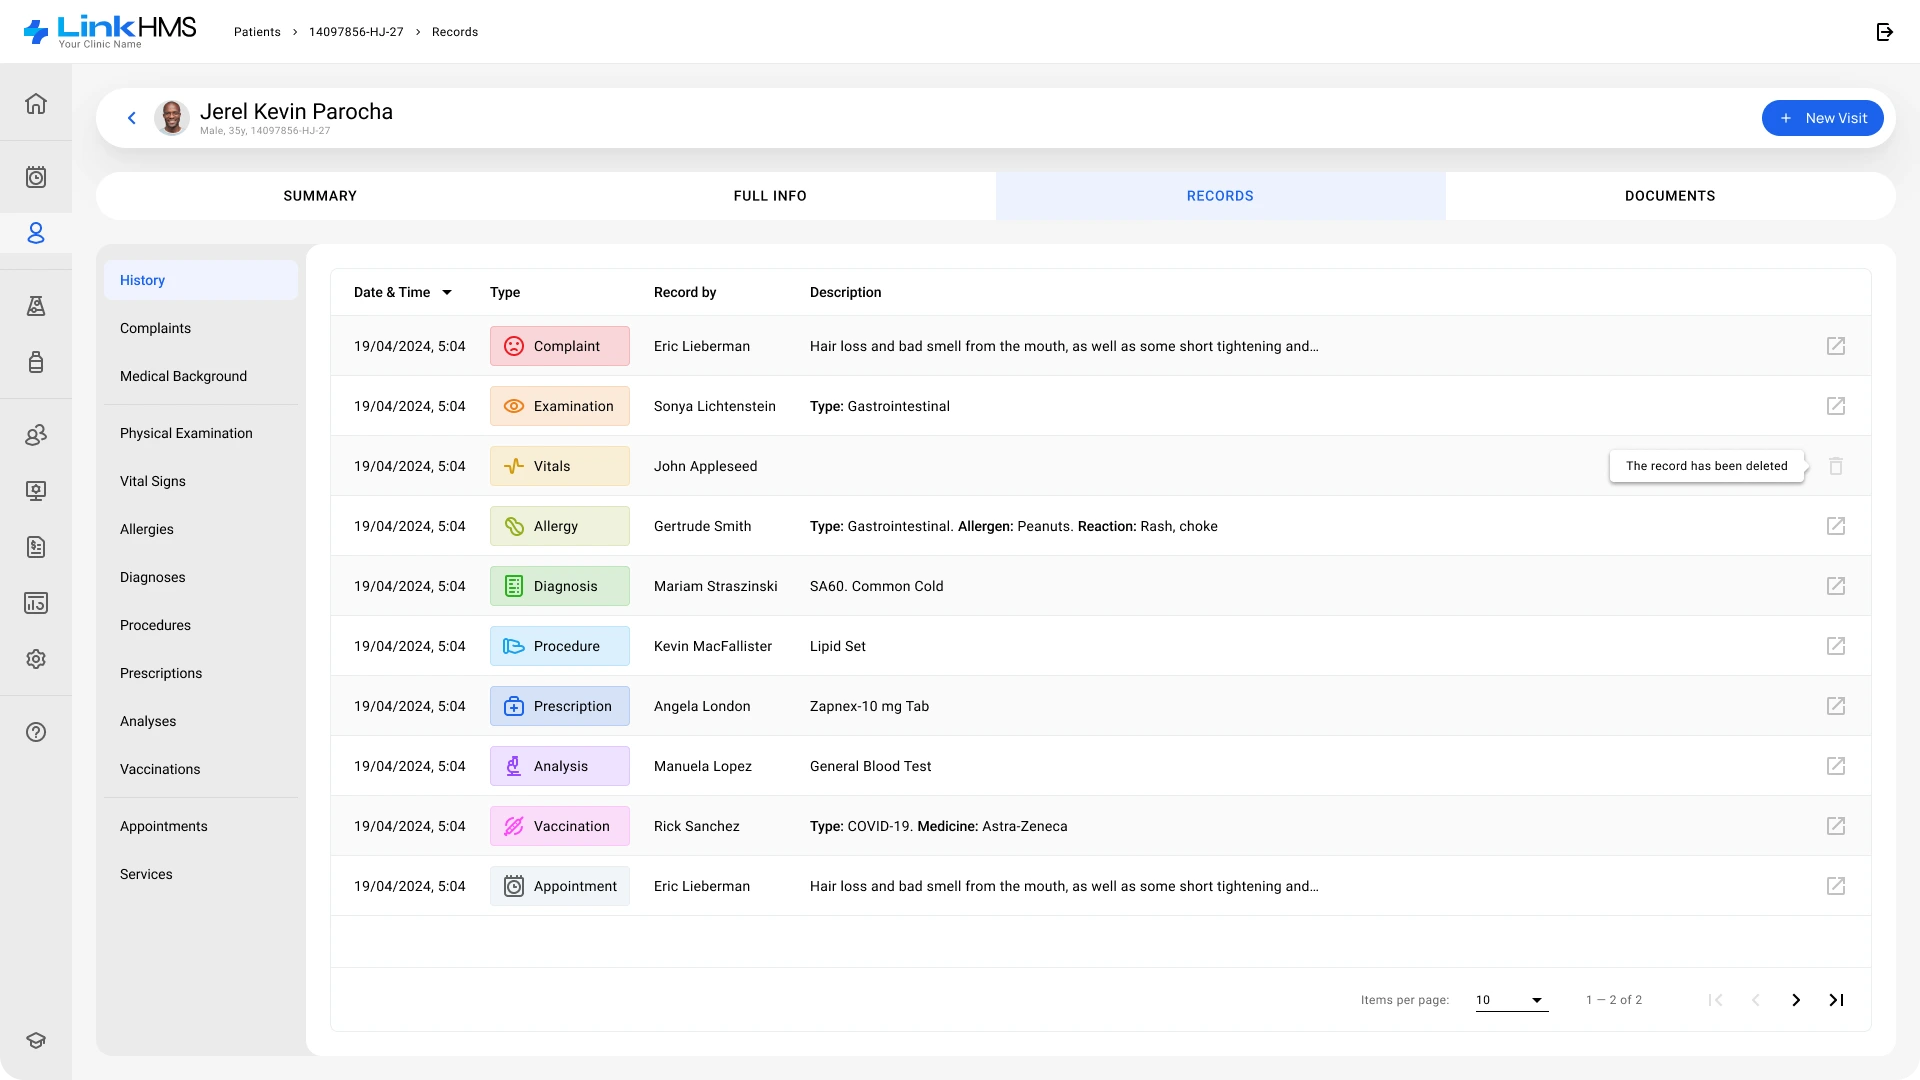
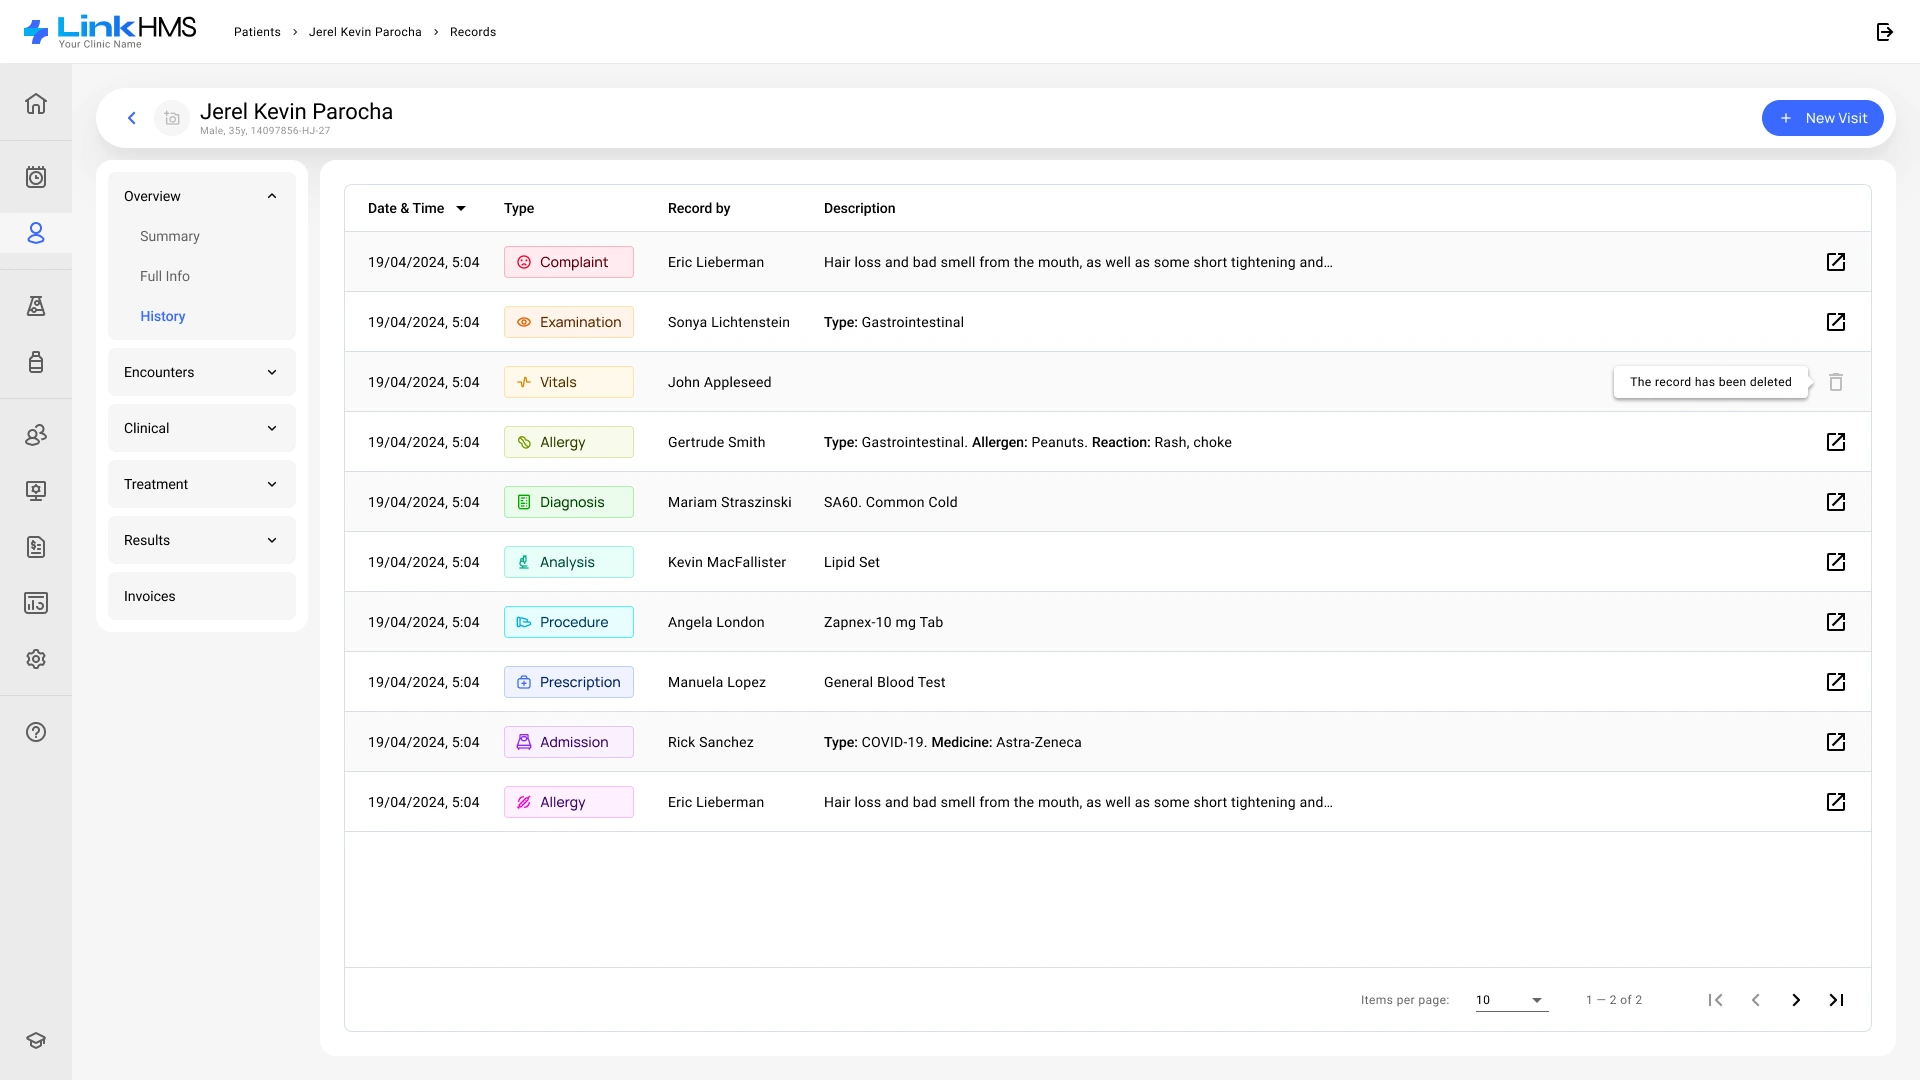
LinkHMS: replace all screens with the new set; add the subscription payment dialog

diff --git a/src/content/cases/linkhms.md b/src/content/cases/linkhms.md
@@ -150,7 +150,7 @@ There is one LinkHMS for everyone: a doctor working alone gets every feature, an
 
 ![Clinic registration form with Google sign-in, clinic details and terms](../../assets/cases/linkhms/clinic-registration.webp "Clinic registration")
 
-![Home screen after sign-up with quick actions, a clinic set-up progress bar and next steps](../../assets/cases/linkhms/clinic-setup.webp "Clinic set-up")
+![Home screen after sign-up with quick actions, a trial notice, a clinic set-up progress bar and recommended next steps](../../assets/cases/linkhms/clinic-setup.webp "Clinic set-up")
 
 </div>
 
@@ -194,9 +194,9 @@ The electronic medical record is split into sections and subsections, so a docto
 
 ![Patient records history with a category menu and colour-coded record types](../../assets/cases/linkhms/patient-records.webp "Records")
 
-![Prescriptions and drug administration chart: medicines with route, dosage and status, a log of non-prescribed medications and Log Dose buttons](../../assets/cases/linkhms/emr-drug-administration.webp "Drug administration")
-
 ![Vaccinations: a schedule grid by age with each vaccine marked completed, scheduled, overdue, refused, excluded or contraindicated](../../assets/cases/linkhms/emr-vaccinations.webp "Vaccinations")
+
+![Prescriptions and drug administration chart: medicines with route, dosage and status, a log of non-prescribed medications and Log Dose buttons](../../assets/cases/linkhms/emr-drug-administration.webp "Drug administration")
 
 </div>
 
@@ -264,6 +264,8 @@ The price is counted per seat: an administrator, plus every doctor, nurse, recep
 
 ![Subscription plan: seats per role priced monthly and annually side by side, with the current plan marked and an upgrade to annual billing](../../assets/cases/linkhms/subscription-plan.webp "Monthly or annual")
 
+![Add Payment Method dialog over the payment summary: continue to payment with a card or choose an alternative payment method, with ways to get help](../../assets/cases/linkhms/subscription-payment.webp "Payment method")
+
 </div>
 
 ## Patient portal
@@ -274,7 +276,7 @@ Patients sign in with their email and a six-digit one-time code. The home screen
 
 <div class="carousel">
 
-![Patient portal home with cards for prescriptions, conditions, appointments, tests, booking and a consultation feature marked as coming soon](../../assets/cases/linkhms/portal-home.webp "Home")
+![Patient portal home with cards for prescriptions, conditions, appointments, tests, booking, telemedicine and log out](../../assets/cases/linkhms/portal-home.webp "Home")
 
 ![Book an Appointment: clinic, specialty, doctor and service with price, a choice of day in the next seven days, available timeslots and a summary before sending the request](../../assets/cases/linkhms/portal-booking.webp "Book an appointment")
 
@@ -286,4 +288,4 @@ Patients sign in with their email and a six-digit one-time code. The home screen
 
 ### There is no limit to perfection
 
-What started with registration, scheduling, patients and the medical record grew over two and a half years into a full clinic system: a live queue, admissions with beds and discharge, billing and insurance claims, a pharmacy, a laboratory, reports and a patient portal. Next in line is consultation with a doctor right from the portal — its card is already waiting on the portal’s home screen, marked “Coming soon”.
+What started with registration, scheduling, patients and the medical record grew over two and a half years into a full clinic system: a live queue, admissions with beds and discharge, billing and insurance claims, a pharmacy, a laboratory, reports and a patient portal. Next in line is consultation with a doctor right from the portal — its Telemedicine card is already waiting on the portal’s home screen.
